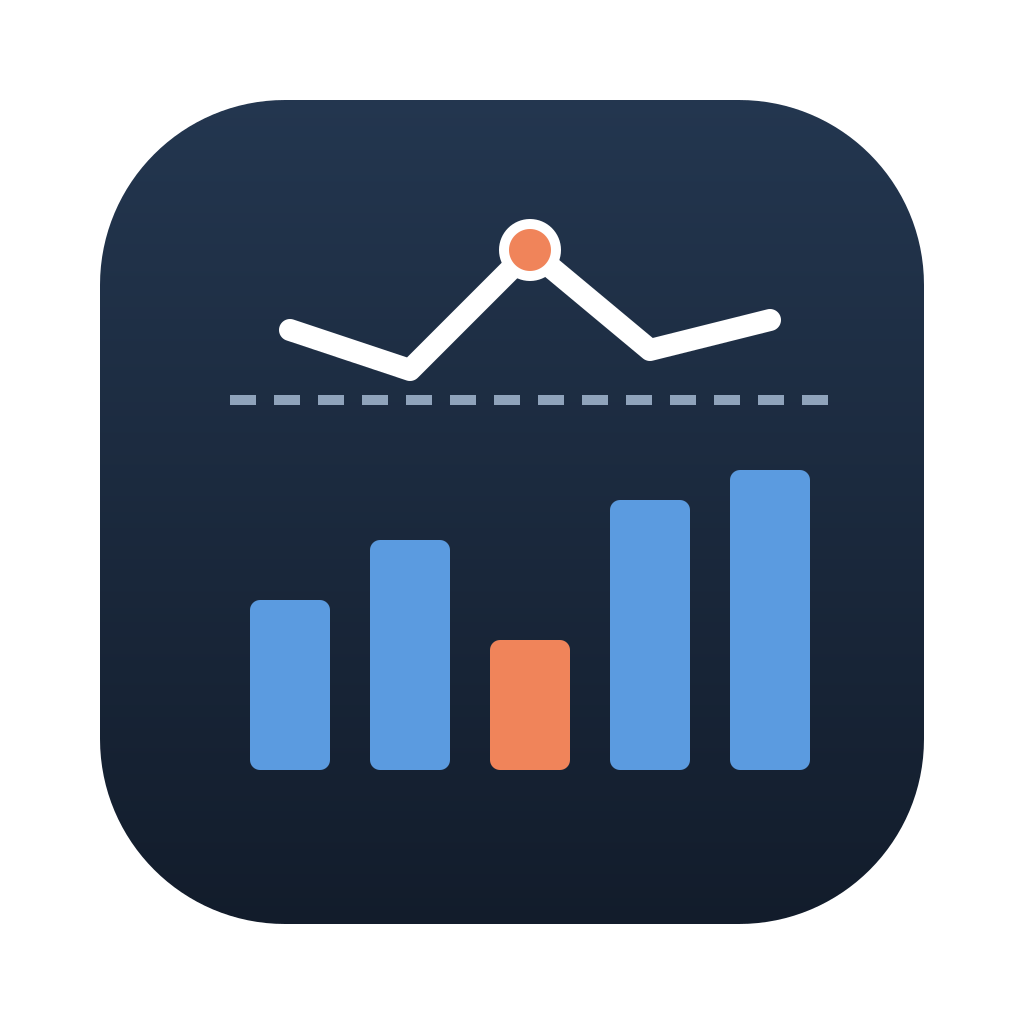
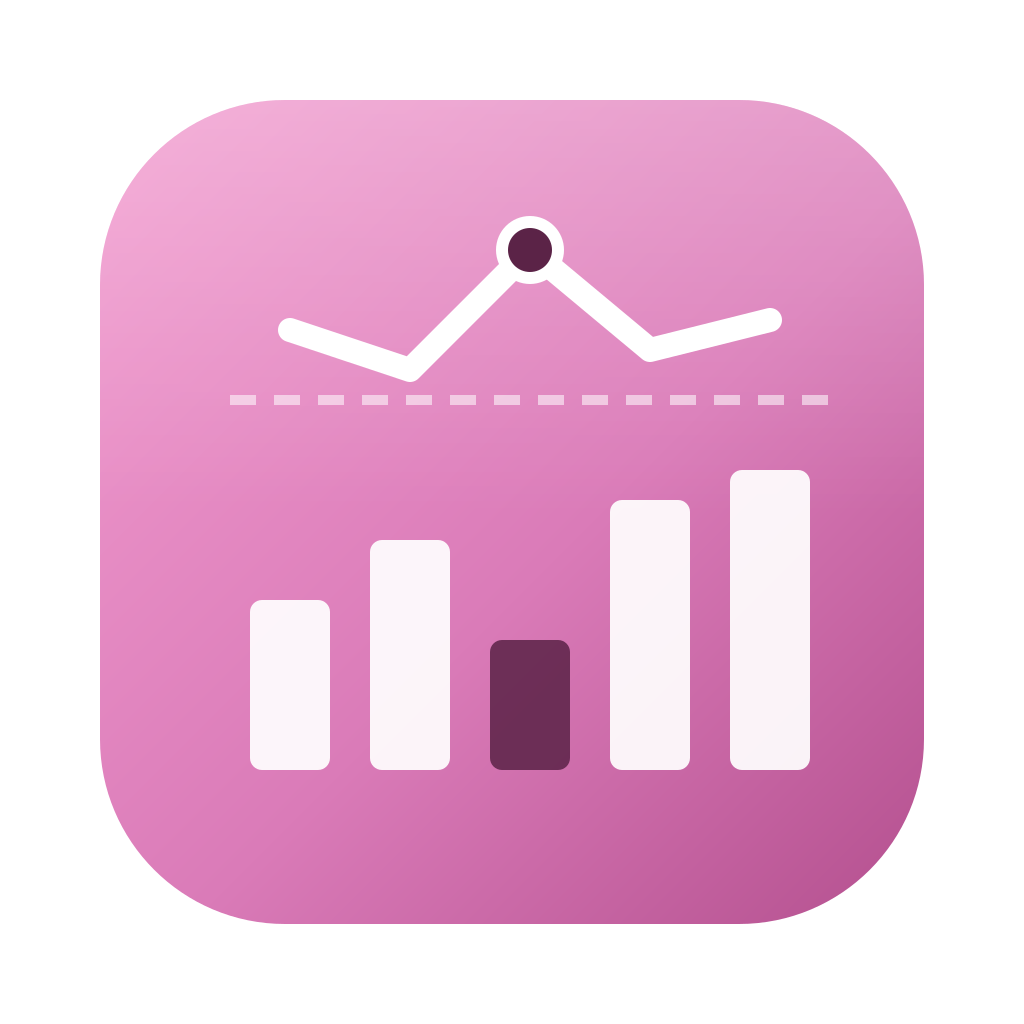
feat: розовая иконка приложения в цветах Glory
Claude-Session: https://claude.ai/code/session_016tKPZru8Fg4TaKmU1tyUnz

diff --git a/CHANGELOG.md b/CHANGELOG.md
@@ -1,5 +1,8 @@
 # Журнал изменений
 
+## 0.3.3 — 2026-11-19
+- Новая иконка приложения: розовый градиент Glory (#f29ccf → #da7bb8 → #b4508f), белые столбики спенда и линия CPD.
+
 ## 0.3.2 — 2026-11-19
 - «Вчера» — всегда вчерашний день по Москве. Нет данных — в карточке прочерки и «Данных нет»; предыдущий день больше не подставляется (решение COO).
 - «Месяц» — накопительно с 1-го числа по вчера; справа — по какой день внесены данные (01.11–17.11). Цифры растут по мере внесения.
